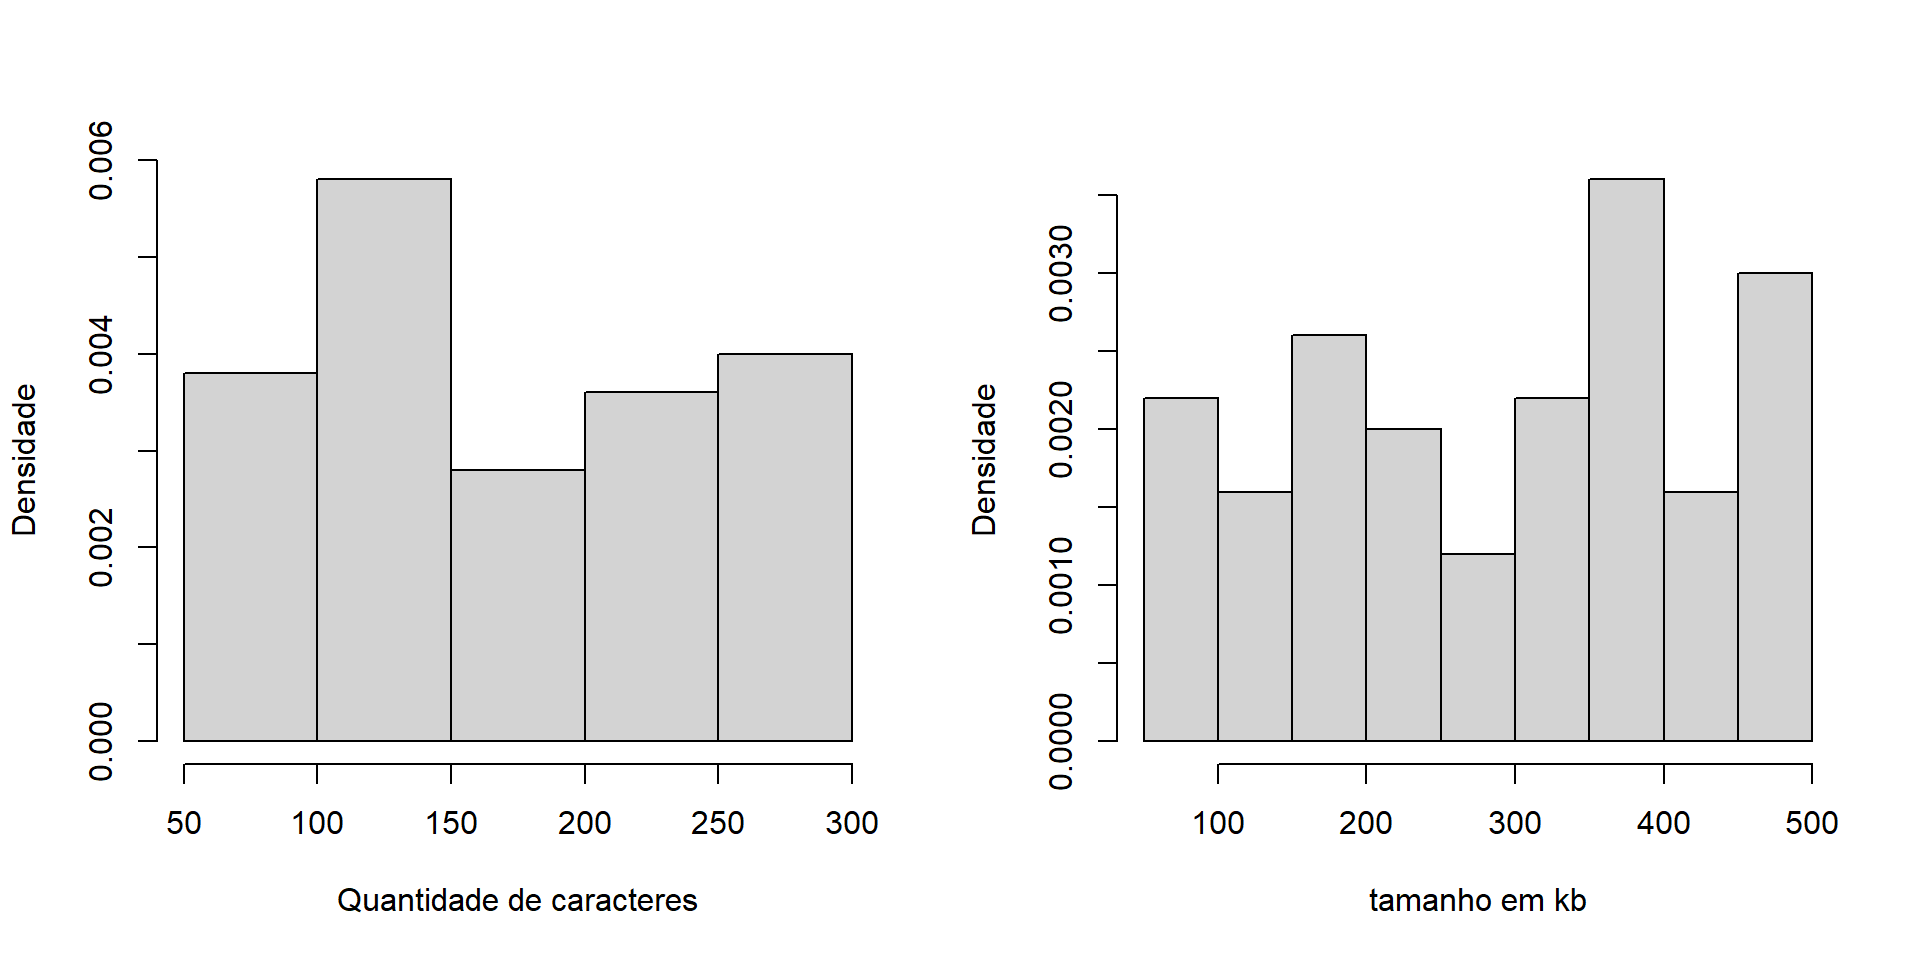
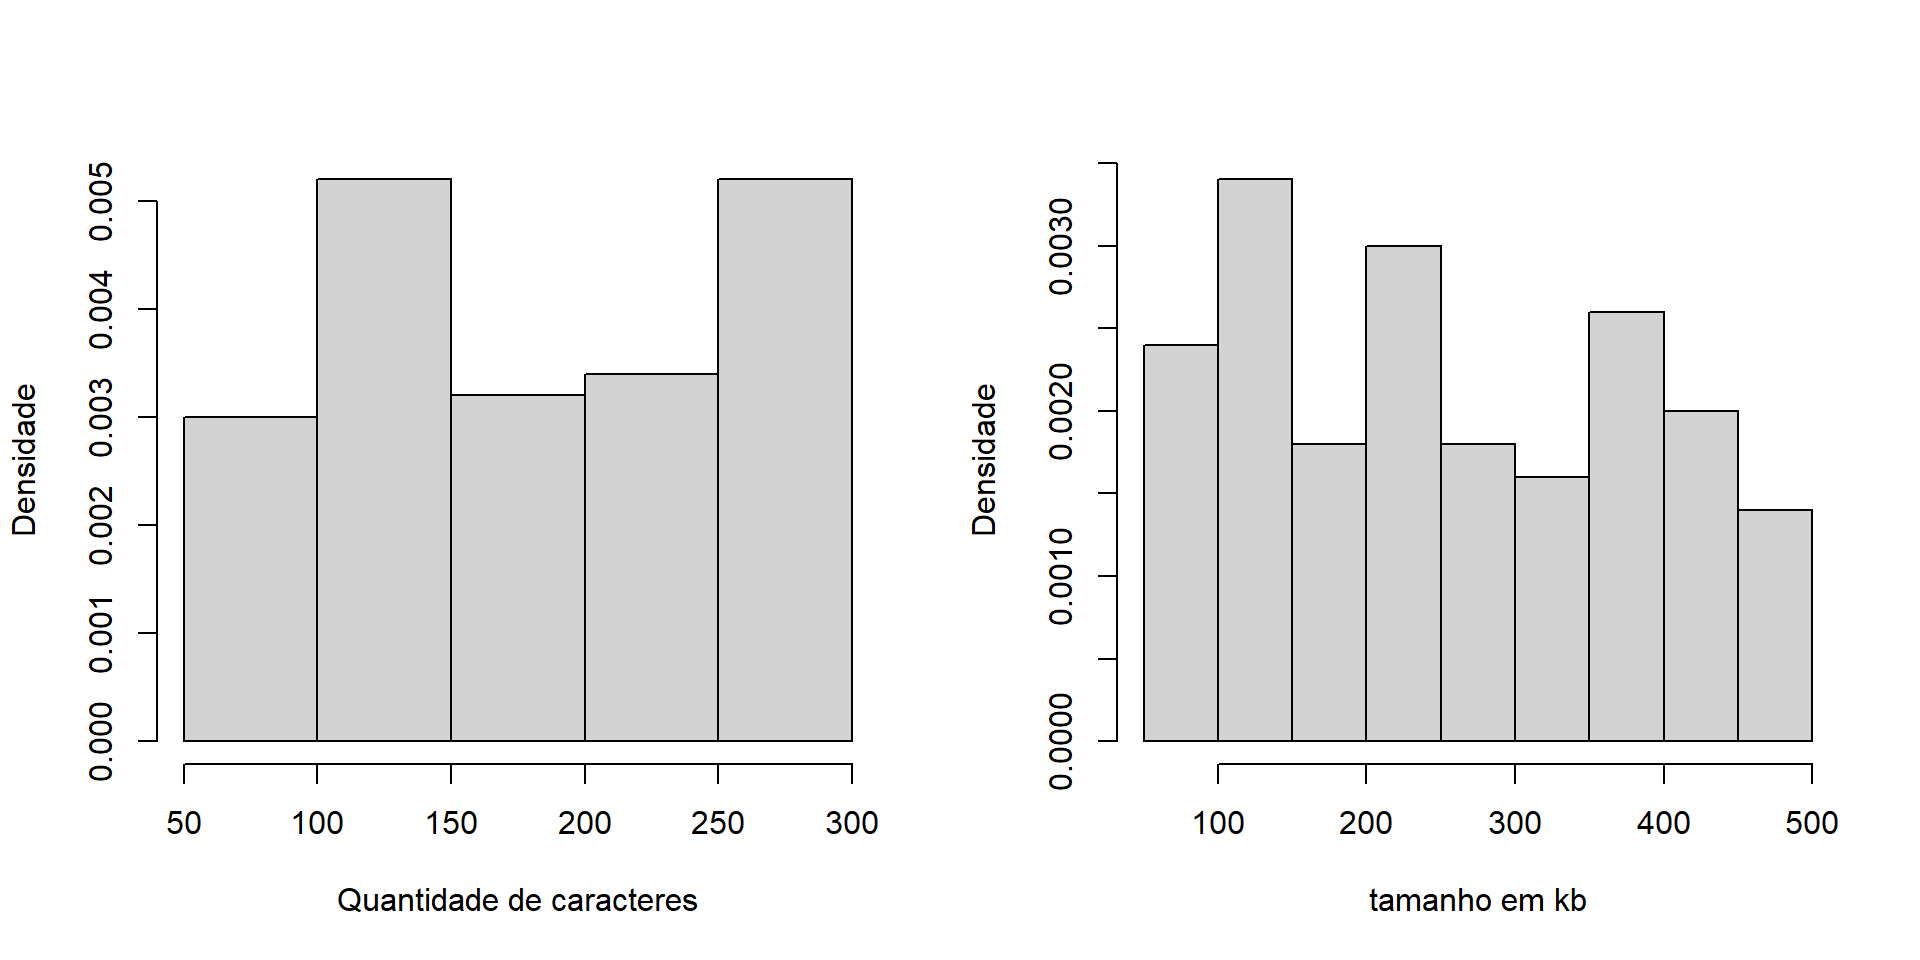
Built site for gh-pages

diff --git a/Cursos/Probabilidade_Estatistica/Cadernos/3-Tabelas_Graficos.html b/Cursos/Probabilidade_Estatistica/Cadernos/3-Tabelas_Graficos.html
@@ -1350,20 +1350,20 @@ Y          ensino fundamental ensino médio  superior
 <div class="cell">
 <div class="sourceCode cell-code" id="cb39"><pre class="sourceCode numberSource r number-lines code-with-copy"><code class="sourceCode r"><span id="cb39-1"><a></a><span class="fu">print</span>(<span class="fu">head</span>(dados_email))</span></code><button title="Copy to Clipboard" class="code-copy-button"><i class="bi"></i></button></pre></div>
 <div class="cell-output cell-output-stdout">
-<pre><code>                     remetente               assunto tamanho_kb prioridade
-1   Laura-Ferreira@example.com       Oferta Especial         77       Alta
-2 Tatiane-Ferreira@example.com   Convite para Evento         61      Média
-3 Tatiane-Ferreira@example.com          Prêmio Ganho        339      Média
-4    José-Ferreira@example.com   Convite para Evento        306      Baixa
-5      Laura-Gomes@example.com       Oferta Especial        389      Média
-6    José-Ferreira@example.com Confirmação de Pedido         80      Média
-   spam qtd_caracteres formato
-1 FALSE             98    HTML
-2  TRUE            217   Texto
-3 FALSE            171   Texto
-4 FALSE            293   Texto
-5 FALSE            229   Texto
-6 FALSE            299   Texto</code></pre>
+<pre><code>                    remetente               assunto tamanho_kb prioridade  spam
+1     Laura-Costa@example.com       Oferta Especial        443       Alta  TRUE
+2 Mariana-Almeida@example.com Confirmação de Pedido        246      Baixa FALSE
+3       Ana-Silva@example.com          Prêmio Ganho         58      Baixa FALSE
+4    Rafael-Souza@example.com  Atualização de Conta        402      Média  TRUE
+5    João-Pereira@example.com Confirmação de Pedido        323      Baixa  TRUE
+6  Ana-Cavalcante@example.com  Atualização de Conta        405      Média  TRUE
+  qtd_caracteres formato
+1            296   Texto
+2             94   Texto
+3             63   Texto
+4            207   Texto
+5            212   Texto
+6            133    HTML</code></pre>
 </div>
 </div>
 </section>
@@ -1373,13 +1373,13 @@ Y          ensino fundamental ensino médio  superior
 <div class="sourceCode cell-code" id="cb41"><pre class="sourceCode numberSource r number-lines code-with-copy"><code class="sourceCode r"><span id="cb41-1"><a></a><span class="fu">str</span>(dados_email)</span></code><button title="Copy to Clipboard" class="code-copy-button"><i class="bi"></i></button></pre></div>
 <div class="cell-output cell-output-stdout">
 <pre><code>'data.frame':   100 obs. of  7 variables:
- $ remetente     : chr  "Laura-Ferreira@example.com" "Tatiane-Ferreira@example.com" "Tatiane-Ferreira@example.com" "José-Ferreira@example.com" ...
- $ assunto       : chr  "Oferta Especial" "Convite para Evento" "Prêmio Ganho" "Convite para Evento" ...
- $ tamanho_kb    : num  77 61 339 306 389 80 446 249 482 128 ...
- $ prioridade    : chr  "Alta" "Média" "Média" "Baixa" ...
- $ spam          : logi  FALSE TRUE FALSE FALSE FALSE FALSE ...
- $ qtd_caracteres: num  98 217 171 293 229 299 229 270 63 149 ...
- $ formato       : chr  "HTML" "Texto" "Texto" "Texto" ...</code></pre>
+ $ remetente     : chr  "Laura-Costa@example.com" "Mariana-Almeida@example.com" "Ana-Silva@example.com" "Rafael-Souza@example.com" ...
+ $ assunto       : chr  "Oferta Especial" "Confirmação de Pedido" "Prêmio Ganho" "Atualização de Conta" ...
+ $ tamanho_kb    : num  443 246 58 402 323 405 269 261 371 75 ...
+ $ prioridade    : chr  "Alta" "Baixa" "Baixa" "Média" ...
+ $ spam          : logi  TRUE FALSE FALSE TRUE TRUE TRUE ...
+ $ qtd_caracteres: num  296 94 63 207 212 133 178 108 122 82 ...
+ $ formato       : chr  "Texto" "Texto" "Texto" "Texto" ...</code></pre>
 </div>
 </div>
 <!-- ## Histogramas -->
@@ -1408,13 +1408,13 @@ Y          ensino fundamental ensino médio  superior
 <div class="cell-output cell-output-stdout">
 <pre><code>
 Baixa Média  Alta 
-   25    39    36 </code></pre>
+   21    46    33 </code></pre>
 </div>
 <div class="sourceCode cell-code" id="cb45"><pre class="sourceCode numberSource r number-lines code-with-copy"><code class="sourceCode r"><span id="cb45-1"><a></a>(<span class="at">tabela.prop =</span> <span class="fu">prop.table</span>(tabela)) </span></code><button title="Copy to Clipboard" class="code-copy-button"><i class="bi"></i></button></pre></div>
 <div class="cell-output cell-output-stdout">
 <pre><code>
 Baixa Média  Alta 
- 0.25  0.39  0.36 </code></pre>
+ 0.21  0.46  0.33 </code></pre>
 </div>
 </div>
 </section>
@@ -1479,8 +1479,8 @@ Baixa Média  Alta
 <div class="sourceCode cell-code" id="cb51"><pre class="sourceCode numberSource r number-lines code-with-copy"><code class="sourceCode r"><span id="cb51-1"><a></a>x <span class="ot">=</span> <span class="fu">runif</span>(<span class="dv">30</span>,<span class="dv">1</span>,<span class="dv">40</span>) <span class="sc">|&gt;</span> <span class="fu">round</span>() <span class="co"># simulação</span></span>
 <span id="cb51-2"><a></a>x</span></code><button title="Copy to Clipboard" class="code-copy-button"><i class="bi"></i></button></pre></div>
 <div class="cell-output cell-output-stdout">
-<pre><code> [1] 18 15 15 11  6 11 29 17 39  4 39 10 28 12 31 21 19 18 40 13 22 21 26 10 10
-[26] 40  6  3 28 13</code></pre>
+<pre><code> [1] 26 30  2  7 10 25 34 17 20 10 23  3  3 30 36 34 13 25  3 20 33  1 17 12 15
+[26] 12  8 38 30 32</code></pre>
 </div>
 </div>
 </section>
@@ -1520,23 +1520,23 @@ Baixa Média  Alta
 <tr class="odd">
 <td style="text-align: left;">(0,5]</td>
 <td style="text-align: right;">2.5</td>
-<td style="text-align: right;">2</td>
-<td style="text-align: right;">0.0667</td>
-<td style="text-align: right;">0.0133</td>
-</tr>
-<tr class="even">
-<td style="text-align: left;">(5,10]</td>
-<td style="text-align: right;">7.5</td>
 <td style="text-align: right;">5</td>
 <td style="text-align: right;">0.1667</td>
 <td style="text-align: right;">0.0333</td>
 </tr>
+<tr class="even">
+<td style="text-align: left;">(5,10]</td>
+<td style="text-align: right;">7.5</td>
+<td style="text-align: right;">4</td>
+<td style="text-align: right;">0.1333</td>
+<td style="text-align: right;">0.0267</td>
+</tr>
 <tr class="odd">
 <td style="text-align: left;">(10,15]</td>
 <td style="text-align: right;">12.5</td>
-<td style="text-align: right;">7</td>
-<td style="text-align: right;">0.2333</td>
-<td style="text-align: right;">0.0467</td>
+<td style="text-align: right;">4</td>
+<td style="text-align: right;">0.1333</td>
+<td style="text-align: right;">0.0267</td>
 </tr>
 <tr class="even">
 <td style="text-align: left;">(15,30]</td>
@@ -1548,9 +1548,9 @@ Baixa Média  Alta
 <tr class="odd">
 <td style="text-align: left;">(30,50]</td>
 <td style="text-align: right;">40.0</td>
-<td style="text-align: right;">5</td>
-<td style="text-align: right;">0.1667</td>
-<td style="text-align: right;">0.0083</td>
+<td style="text-align: right;">6</td>
+<td style="text-align: right;">0.2000</td>
+<td style="text-align: right;">0.0100</td>
 </tr>
 </tbody>
 </table>

diff --git a/Cursos/Probabilidade_Estatistica/Cadernos/3-Graficos.html b/Cursos/Probabilidade_Estatistica/Cadernos/3-Graficos.html
@@ -780,20 +780,20 @@ Y          ensino fundamental ensino médio superior  Sum
 <div class="cell">
 <div class="sourceCode cell-code" id="cb13"><pre class="sourceCode numberSource r number-lines code-with-copy"><code class="sourceCode r"><span id="cb13-1"><a></a><span class="fu">print</span>(<span class="fu">head</span>(dados_email))</span></code><button title="Copy to Clipboard" class="code-copy-button"><i class="bi"></i></button></pre></div>
 <div class="cell-output cell-output-stdout">
-<pre><code>                    remetente               assunto tamanho_kb prioridade  spam
-1     Laura-Silva@example.com       Oferta Especial        312       Alta  TRUE
-2    Pedro-Santos@example.com       Oferta Especial        500      Média FALSE
-3 Rafael-Oliveira@example.com   Convite para Evento        485      Média  TRUE
-4     Pedro-Silva@example.com Confirmação de Pedido        253      Média FALSE
-5       Ana-Souza@example.com       Oferta Especial        379      Média  TRUE
-6   Carlos-Santos@example.com  Atualização de Conta        380      Média  TRUE
+<pre><code>                     remetente              assunto tamanho_kb prioridade  spam
+1      Pedro-Silva@example.com  Convite para Evento        218      Média  TRUE
+2 Tatiane-Oliveira@example.com  Convite para Evento        396       Alta  TRUE
+3  Carlos-Ferreira@example.com  Convite para Evento        367      Baixa  TRUE
+4    Lucas-Pereira@example.com Atualização de Conta        101      Média FALSE
+5    João-Ferreira@example.com  Convite para Evento        155       Alta FALSE
+6        Ana-Silva@example.com  Convite para Evento        240       Alta  TRUE
   qtd_caracteres formato
-1            138    HTML
-2            125    HTML
-3            149   Texto
-4             93    HTML
-5            272    HTML
-6            232    HTML</code></pre>
+1            248    HTML
+2            297    HTML
+3            282    HTML
+4            203   Texto
+5            160   Texto
+6            278   Texto</code></pre>
 </div>
 </div>
 </section>
@@ -803,13 +803,13 @@ Y          ensino fundamental ensino médio superior  Sum
 <div class="sourceCode cell-code" id="cb15"><pre class="sourceCode numberSource r number-lines code-with-copy"><code class="sourceCode r"><span id="cb15-1"><a></a><span class="fu">str</span>(dados_email)</span></code><button title="Copy to Clipboard" class="code-copy-button"><i class="bi"></i></button></pre></div>
 <div class="cell-output cell-output-stdout">
 <pre><code>'data.frame':   100 obs. of  7 variables:
- $ remetente     : chr  "Laura-Silva@example.com" "Pedro-Santos@example.com" "Rafael-Oliveira@example.com" "Pedro-Silva@example.com" ...
- $ assunto       : chr  "Oferta Especial" "Oferta Especial" "Convite para Evento" "Confirmação de Pedido" ...
- $ tamanho_kb    : num  312 500 485 253 379 380 307 370 316 221 ...
- $ prioridade    : chr  "Alta" "Média" "Média" "Média" ...
- $ spam          : logi  TRUE FALSE TRUE FALSE TRUE TRUE ...
- $ qtd_caracteres: num  138 125 149 93 272 232 132 182 112 216 ...
- $ formato       : chr  "HTML" "HTML" "Texto" "HTML" ...</code></pre>
+ $ remetente     : chr  "Pedro-Silva@example.com" "Tatiane-Oliveira@example.com" "Carlos-Ferreira@example.com" "Lucas-Pereira@example.com" ...
+ $ assunto       : chr  "Convite para Evento" "Convite para Evento" "Convite para Evento" "Atualização de Conta" ...
+ $ tamanho_kb    : num  218 396 367 101 155 240 143 314 245 78 ...
+ $ prioridade    : chr  "Média" "Alta" "Baixa" "Média" ...
+ $ spam          : logi  TRUE TRUE TRUE FALSE FALSE TRUE ...
+ $ qtd_caracteres: num  248 297 282 203 160 278 52 242 119 82 ...
+ $ formato       : chr  "HTML" "HTML" "HTML" "Texto" ...</code></pre>
 </div>
 </div>
 </section>
@@ -842,13 +842,13 @@ Y          ensino fundamental ensino médio superior  Sum
 <div class="cell-output cell-output-stdout">
 <pre><code>
 Baixa Média  Alta 
-   22    41    37 </code></pre>
+   21    45    34 </code></pre>
 </div>
 <div class="sourceCode cell-code" id="cb21"><pre class="sourceCode numberSource r number-lines code-with-copy"><code class="sourceCode r"><span id="cb21-1"><a></a>(<span class="at">tabela.prop =</span> <span class="fu">prop.table</span>(tabela)) </span></code><button title="Copy to Clipboard" class="code-copy-button"><i class="bi"></i></button></pre></div>
 <div class="cell-output cell-output-stdout">
 <pre><code>
 Baixa Média  Alta 
- 0.22  0.41  0.37 </code></pre>
+ 0.21  0.45  0.34 </code></pre>
 </div>
 </div>
 </section>

diff --git a/Cursos/Introducao_R/Cadernos/5-Funcoes_Prob.html b/Cursos/Introducao_R/Cadernos/5-Funcoes_Prob.html
@@ -407,13 +407,13 @@ P(X = x) = \binom{n}{x} p^x (1-p)^{n-x}
 <span id="cb5-2"><a href="#cb5-2" aria-hidden="true" tabindex="-1"></a>n <span class="ot">=</span> <span class="dv">1</span></span>
 <span id="cb5-3"><a href="#cb5-3" aria-hidden="true" tabindex="-1"></a>(<span class="at">x =</span> <span class="fu">rbinom</span>(N,n,<span class="at">prob =</span> <span class="fl">0.5</span>))</span></code><button title="Copy to Clipboard" class="code-copy-button"><i class="bi"></i></button></pre></div>
 <div class="cell-output cell-output-stdout">
-<pre><code> [1] 1 1 1 1 0 1 0 1 0 0 0 1 0 1 0 1 1 1 1 1</code></pre>
+<pre><code> [1] 1 1 0 0 0 0 1 0 1 0 0 0 0 0 1 0 0 1 0 0</code></pre>
 </div>
 <div class="sourceCode cell-code" id="cb7"><pre class="sourceCode r code-with-copy"><code class="sourceCode r"><span id="cb7-1"><a href="#cb7-1" aria-hidden="true" tabindex="-1"></a>(<span class="fu">table</span>(x))</span></code><button title="Copy to Clipboard" class="code-copy-button"><i class="bi"></i></button></pre></div>
 <div class="cell-output cell-output-stdout">
 <pre><code>x
  0  1 
- 7 13 </code></pre>
+14  6 </code></pre>
 </div>
 </div>
 </section>
@@ -454,8 +454,8 @@ P(X = x) = \frac{e^{-\lambda} \lambda^x}{x!}
 <span id="cb13-2"><a href="#cb13-2" aria-hidden="true" tabindex="-1"></a><span class="fu">table</span>(x)</span></code><button title="Copy to Clipboard" class="code-copy-button"><i class="bi"></i></button></pre></div>
 <div class="cell-output cell-output-stdout">
 <pre><code>x
-0 1 2 3 5 
-1 1 4 3 1 </code></pre>
+1 2 3 4 
+3 4 2 1 </code></pre>
 </div>
 </div>
 </section>

diff --git a/Cursos/Probabilidade_Estatistica/Cadernos/5-Medidas_de_Dispersao.html b/Cursos/Probabilidade_Estatistica/Cadernos/5-Medidas_de_Dispersao.html
@@ -395,7 +395,7 @@
 <section id="title-slide" class="quarto-title-block center">
   <h1 class="title">Probabilidade e Estatística</h1>
   <p class="subtitle"></p><center><br>
-Medidas de Posição e Separatrizes<br>
+Medidas de Dispersão<br>
 <center><p></p>
 
 <div class="quarto-title-authors">
@@ -450,11 +450,11 @@ Professor: Leonardo Brandão Freitas do Nascimento
 <tbody>
 <tr class="odd">
 <td style="text-align: left;">69</td>
-<td style="text-align: right;">1</td>
+<td style="text-align: right;">2</td>
 </tr>
 <tr class="even">
 <td style="text-align: left;">70</td>
-<td style="text-align: right;">7</td>
+<td style="text-align: right;">6</td>
 </tr>
 <tr class="odd">
 <td style="text-align: left;">71</td>
@@ -476,20 +476,20 @@ Professor: Leonardo Brandão Freitas do Nascimento
 </thead>
 <tbody>
 <tr class="odd">
-<td style="text-align: left;">68</td>
+<td style="text-align: left;">69</td>
 <td style="text-align: right;">1</td>
 </tr>
 <tr class="even">
 <td style="text-align: left;">70</td>
-<td style="text-align: right;">2</td>
+<td style="text-align: right;">5</td>
 </tr>
 <tr class="odd">
 <td style="text-align: left;">71</td>
-<td style="text-align: right;">6</td>
+<td style="text-align: right;">2</td>
 </tr>
 <tr class="even">
 <td style="text-align: left;">72</td>
-<td style="text-align: right;">1</td>
+<td style="text-align: right;">2</td>
 </tr>
 </tbody>
 </table>

diff --git a/Cursos/Probabilidade_Estatistica/Cadernos/5-Medidas_Dispersao.html b/Cursos/Probabilidade_Estatistica/Cadernos/5-Medidas_Dispersao.html
@@ -450,15 +450,11 @@ Professor: Leonardo Brandão Freitas do Nascimento
 <tbody>
 <tr class="odd">
 <td style="text-align: left;">69</td>
-<td style="text-align: right;">3</td>
+<td style="text-align: right;">2</td>
 </tr>
 <tr class="even">
 <td style="text-align: left;">70</td>
-<td style="text-align: right;">5</td>
-</tr>
-<tr class="odd">
-<td style="text-align: left;">71</td>
-<td style="text-align: right;">2</td>
+<td style="text-align: right;">8</td>
 </tr>
 </tbody>
 </table>
@@ -476,27 +472,15 @@ Professor: Leonardo Brandão Freitas do Nascimento
 </thead>
 <tbody>
 <tr class="odd">
-<td style="text-align: left;">67</td>
-<td style="text-align: right;">1</td>
-</tr>
-<tr class="even">
 <td style="text-align: left;">69</td>
 <td style="text-align: right;">2</td>
 </tr>
-<tr class="odd">
+<tr class="even">
 <td style="text-align: left;">70</td>
-<td style="text-align: right;">2</td>
-</tr>
-<tr class="even">
-<td style="text-align: left;">71</td>
-<td style="text-align: right;">2</td>
+<td style="text-align: right;">7</td>
 </tr>
 <tr class="odd">
-<td style="text-align: left;">72</td>
-<td style="text-align: right;">2</td>
-</tr>
-<tr class="even">
-<td style="text-align: left;">73</td>
+<td style="text-align: left;">71</td>
 <td style="text-align: right;">1</td>
 </tr>
 </tbody>

diff --git a/Cursos/Introducao_R/Cadernos/4-Funcoes.html b/Cursos/Introducao_R/Cadernos/4-Funcoes.html
@@ -422,11 +422,11 @@ window.Quarto = {
 <span id="cb13-5"><a href="#cb13-5" aria-hidden="true" tabindex="-1"></a>y <span class="ot">=</span> <span class="fu">sample</span>(<span class="dv">1</span><span class="sc">:</span><span class="dv">100</span>,<span class="dv">20</span>,<span class="at">replace=</span>T)</span>
 <span id="cb13-6"><a href="#cb13-6" aria-hidden="true" tabindex="-1"></a><span class="fu">media</span>(y)</span></code><button title="Copy to Clipboard" class="code-copy-button"><i class="bi"></i></button></pre></div>
 <div class="cell-output cell-output-stdout">
-<pre><code>[1] 53.15</code></pre>
+<pre><code>[1] 52.2</code></pre>
 </div>
 <div class="sourceCode cell-code" id="cb15"><pre class="sourceCode r code-with-copy"><code class="sourceCode r"><span id="cb15-1"><a href="#cb15-1" aria-hidden="true" tabindex="-1"></a><span class="fu">mean</span>(y)</span></code><button title="Copy to Clipboard" class="code-copy-button"><i class="bi"></i></button></pre></div>
 <div class="cell-output cell-output-stdout">
-<pre><code>[1] 53.15</code></pre>
+<pre><code>[1] 52.2</code></pre>
 </div>
 </div>
 <ul>
